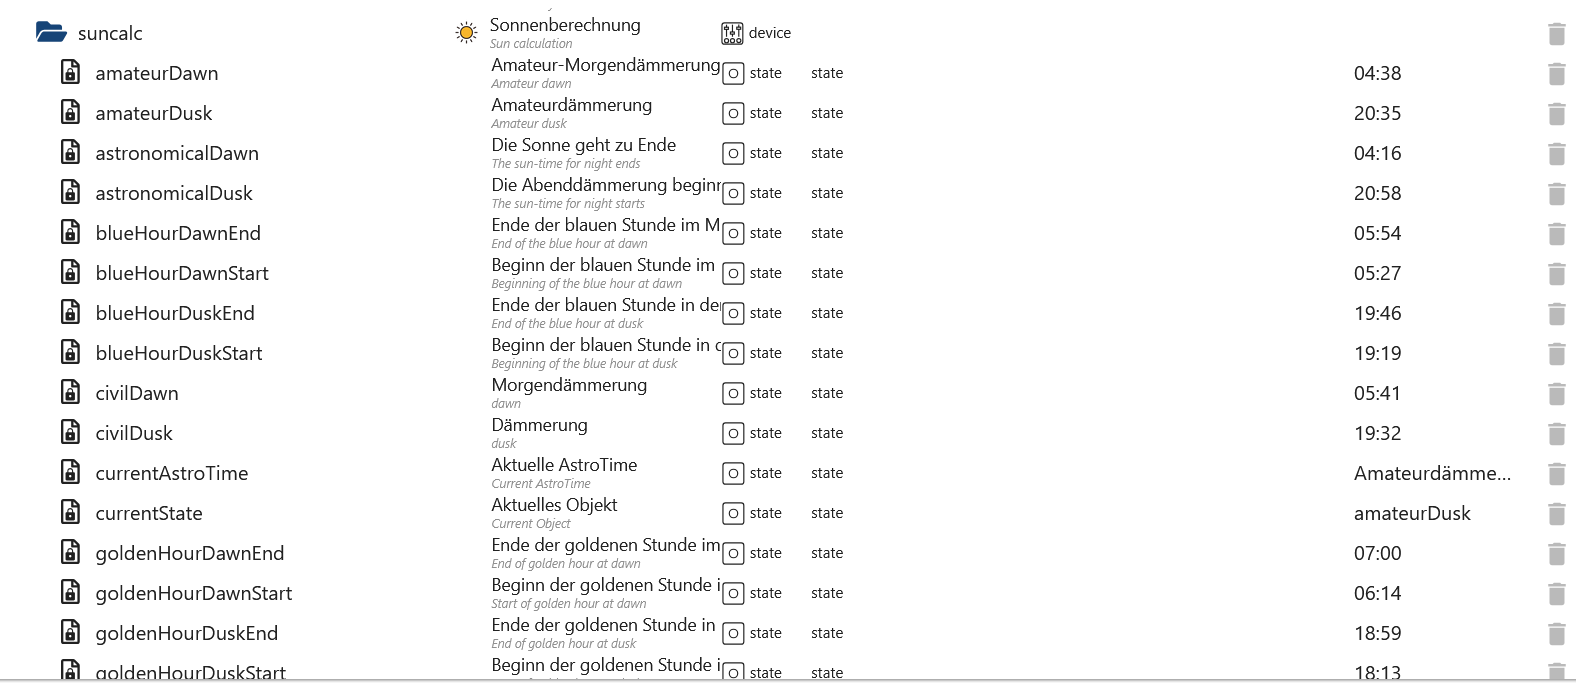
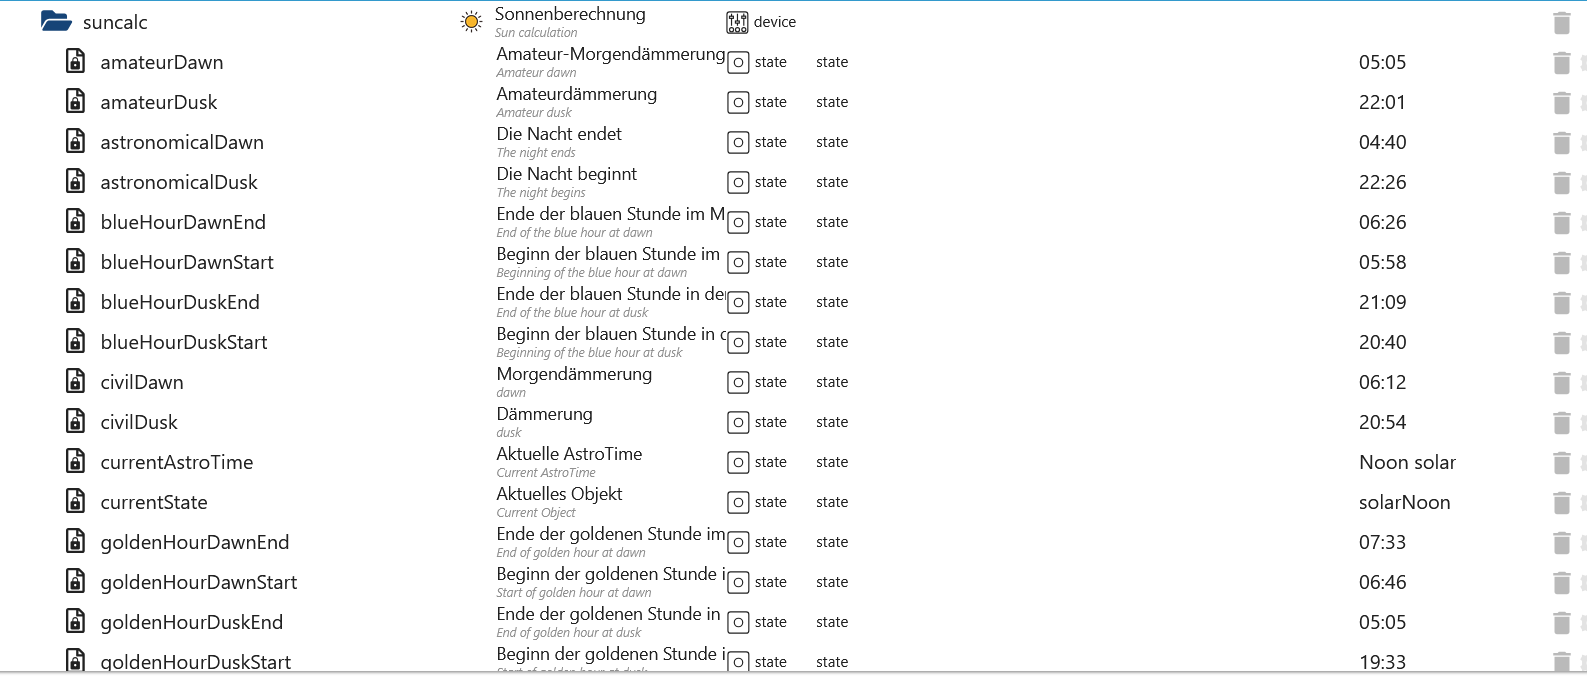
change name

diff --git a/lib/helper.js b/lib/helper.js
@@ -3380,19 +3380,19 @@ module.exports = {
             type: "string",
             role: "state",
             name: {
-                en: "The sun-time for night starts",
-                de: "Die Abenddämmerung beginnt",
-                ru: "Наступает время заката, когда начинается ночь",
-                pt: "O sol da noite começa",
-                nl: "De tijd van de zon voor de avond begint",
-                fr: "L'heure du soleil commence",
-                it: "Inizia l'ora solare notturna",
-                es: "Empieza la hora del sol por la noche",
-                pl: "Zaczyna się czas słoneczny na noc",
-                uk: "Починається сонячний час ночі",
-                "zh-cn": "夜晚的日照时间开始了",
+                en: "The night begins",
+                de: "Die Nacht beginnt",
+                ru: "Ночь начинается.",
+                pt: "A noite começa",
+                nl: "De nacht begint",
+                fr: "La nuit commence",
+                it: "La notte inizia",
+                es: "La noche comienza",
+                pl: "Noc się zaczyna",
+                uk: "Починається ніч",
+                "zh-cn": "夜晚开始",
             },
-            desc: "The sun-time for night starts",
+            desc: "The night begins",
             read: true,
             write: false,
             def: "00:00",
@@ -3402,19 +3402,19 @@ module.exports = {
             type: "string",
             role: "state",
             name: {
-                en: "The sun-time for night ends",
-                de: "Die Sonne geht zu Ende",
-                ru: "Вечернее время солнца подходит к концу",
-                pt: "O sol da noite termina",
-                nl: "De tijd van de zon voor de avond is voorbij",
-                fr: "Fin de l'heure du soleil",
-                it: "Il sole notturno finisce",
-                es: "El sol por la noche termina",
-                pl: "Czas słoneczny na noc się kończy",
-                uk: "Сонячний час для ночі закінчується",
-                "zh-cn": "夜晚的日照时间结束了",
+                en: "The night ends",
+                de: "Die Nacht endet",
+                ru: "Ночь заканчивается.",
+                pt: "A noite acaba",
+                nl: "De nacht eindigt",
+                fr: "La nuit se termine",
+                it: "La notte finisce",
+                es: "La noche termina",
+                pl: "Noc się kończy",
+                uk: "Ніч закінчується",
+                "zh-cn": "夜晚结束",
             },
-            desc: "The sun-time for night ends",
+            desc: "The night ends",
             read: true,
             write: false,
             def: "00:00",

diff --git a/main.js b/main.js
@@ -628,7 +628,7 @@ class OpenMeteo extends utils.Adapter {
         const current = val.current;
         const times = new Date();
         this.isDay = "night";
-        if (times > new Date(this.timeArray["sunriseStart"]) && times < new Date(this.timeArray["sunsetStart"])) {
+        if (times > new Date(this.timeArray["sunriseStart"]) && times < new Date(this.timeArray["civilDusk"])) {
             this.isDay = "day";
         }
         if (current) {

diff --git a/docs/de/README.md b/docs/de/README.md
@@ -308,8 +308,8 @@
 | ------------------- | ---------------------------------------------- |
 | amateurDawn         | Amateurmorgendämmerung 🟢                      |
 | amateurDusk         | Amateurdämmerung 🟢                            |
-| astronomicalDawn    | Sonnenuntergang 🟢                             |
-| astronomicalDusk    | Abenddämmerung 🟢                              |
+| astronomicalDawn    | Die Nacht endet 🟢                             |
+| astronomicalDusk    | Die Nacht beginnd 🟢                           |
 | blueHourDawnEnd     | Ende der blauen Stunde im Morgengraue 🟢       |
 | blueHourDawnStart   | Beginn der blauen Stunde im Morgengraue 🟢     |
 | blueHourDuskEnd     | Ende der blauen Stunde in der Dämmerung 🟢     |

diff --git a/docs/en/README.md b/docs/en/README.md
@@ -308,8 +308,8 @@
 | ------------------- | ------------------------------------- |
 | amateurDawn         | Amateur dawn 🟢                       |
 | amateurDusk         | Amateur dusk 🟢                       |
-| astronomicalDawn    | Astronomical dawn 🟢                  |
-| astronomicalDusk    | Astronomical dusk 🟢                  |
+| astronomicalDawn    | The night ends 🟢                     |
+| astronomicalDusk    | The night begins 🟢                   |
 | blueHourDawnEnd     | End of the blue hour at dawn 🟢       |
 | blueHourDawnStart   | Beginning of the blue hour at dawn 🟢 |
 | blueHourDuskEnd     | End of the blue hour at dusk 🟢       |
